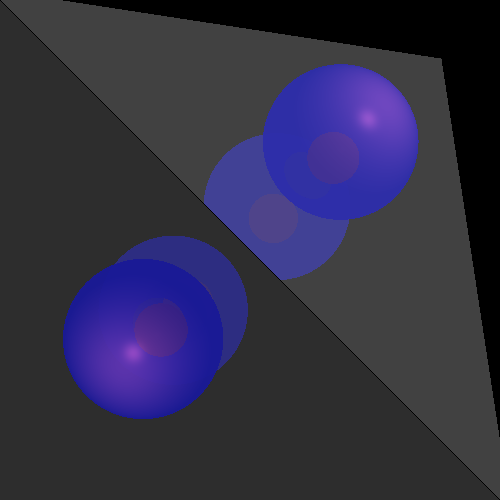
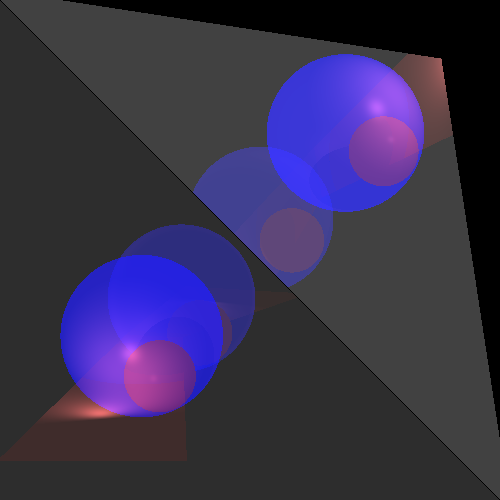
targil 7 final wih picture

Changed region(s): [[0.09, 0.09, 0.93, 0.87], [0.39, 0.33, 0.45, 0.42]]

diff --git a/Tests/elements/ReflectionRefractionTests.java b/Tests/elements/ReflectionRefractionTests.java
@@ -149,15 +149,15 @@ public class ReflectionRefractionTests {
                         new Point3D(670, 670, 3000)) //
                         .setEmission(new Color(20, 20, 20)) //
                         .setMaterial(new Material().setKr(1)),
-                new Triangle(new Point3D(-1200, -1000, 500), new Point3D(-700,-1000, 500),
-                new Point3D(-600, -200,2000))
+                new Triangle(new Point3D(-1200, -1000, 500), new Point3D(-300,-1000, 500),
+                new Point3D(-450, -200,-3000))
                 .setEmission(new Color(20 ,1, 0))
                 .setMaterial(new Material().setKd(0.25).setKs(0.25).setShininess(20).setKt(0.9)));
 
         scene.lights.add(new SpotLight(new Color(1020, 400, 400), new Point3D(-750, -750, -150), new Vector(-1, -1, -4)) //
                 .setKl(0.00001).setKq(0.000005));
 
-        ImageWriter imageWriter = new ImageWriter("allEffectsTest8", 500, 500);
+        ImageWriter imageWriter = new ImageWriter("allEffectsTest", 500, 500);
         Render render = new Render() //
                 .setImageWriter(imageWriter) //
                 .setCamera(camera) //
